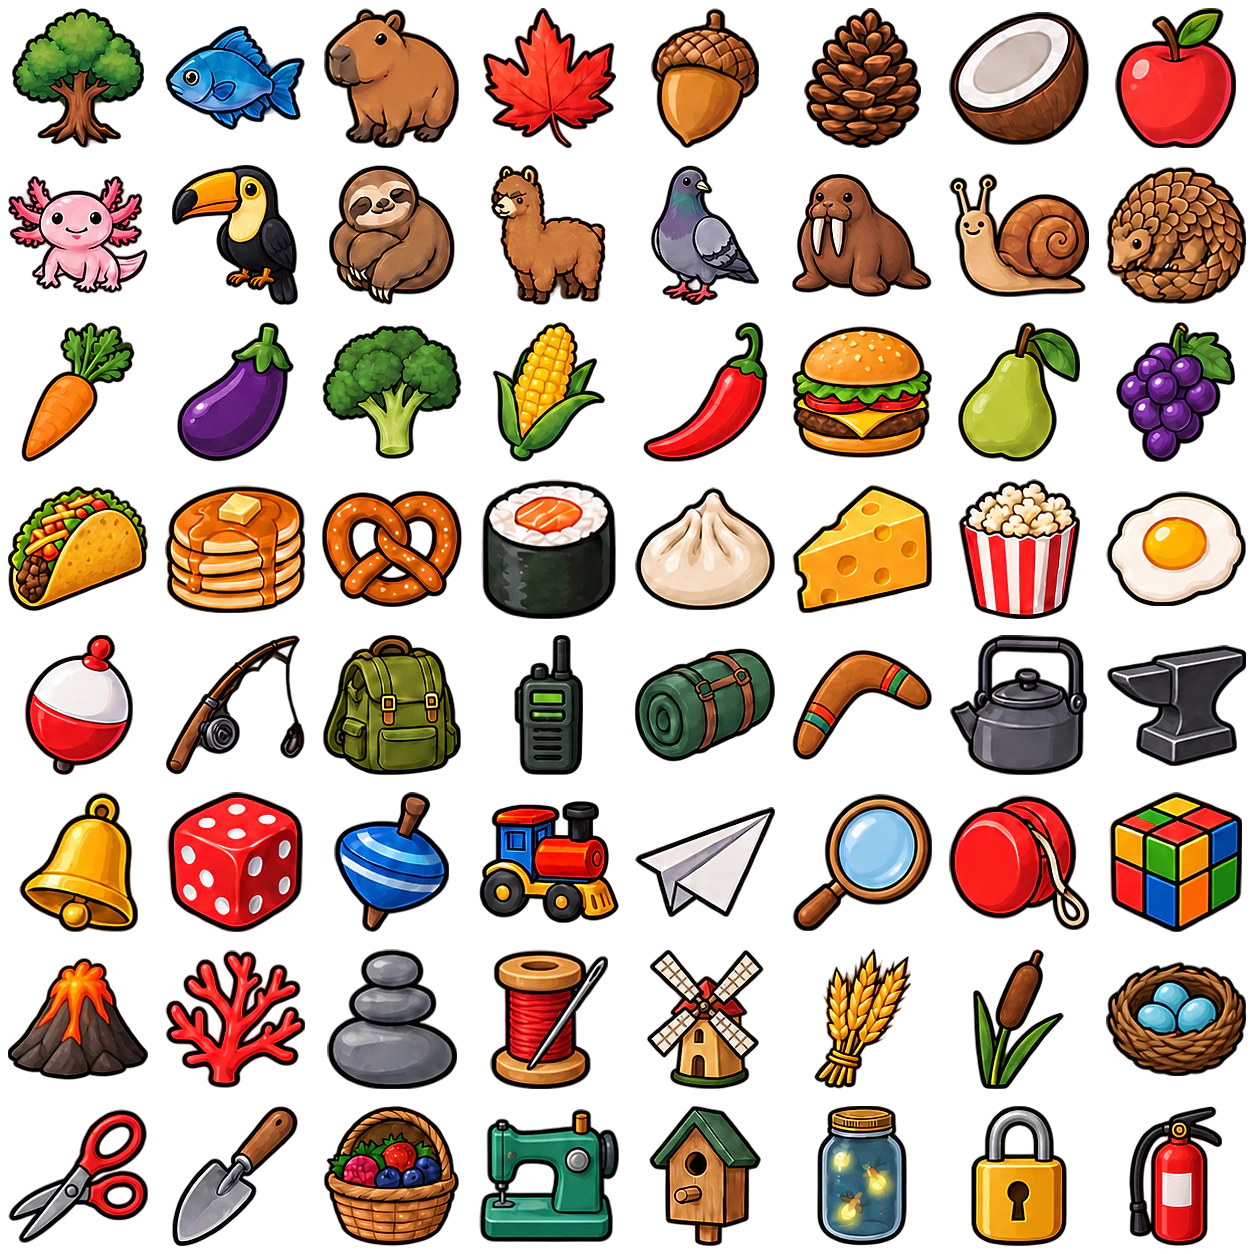
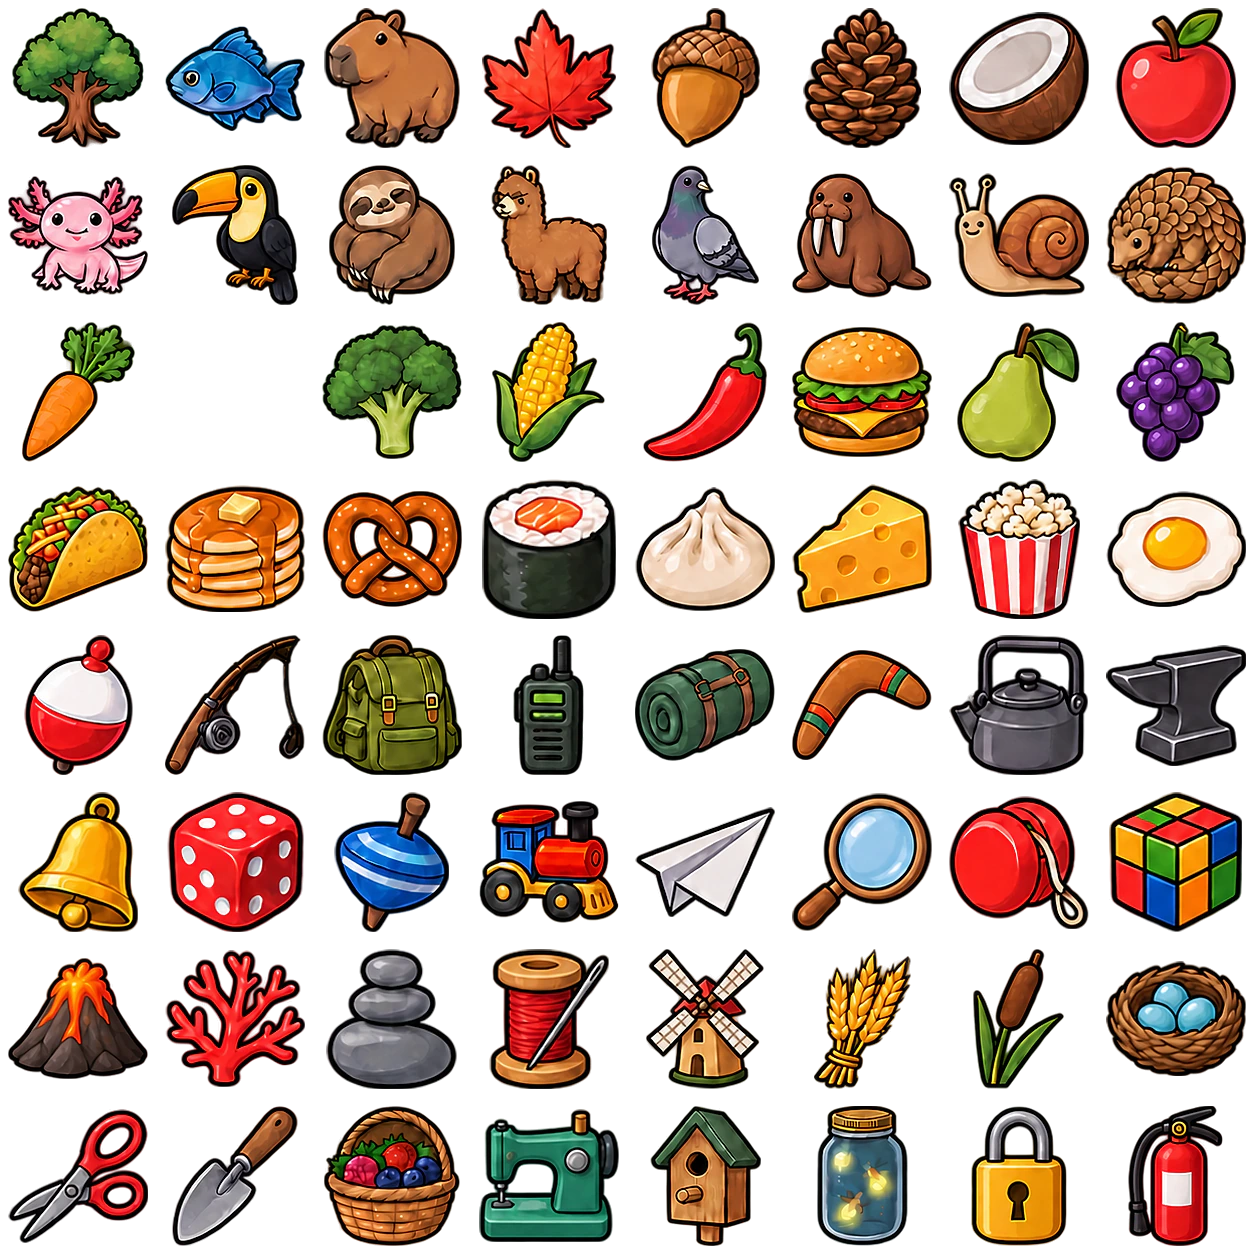
The eggplant profile picture is retired: not offered, and one already chosen shows the default silhouette

diff --git a/src/app/profile-icon-crops.ts b/src/app/profile-icon-crops.ts
@@ -34,17 +34,18 @@ const OBJECT_BOUNDS_V2 = [
 /**
  * The third object sheet (IDs 256–319), fitted the same way from
  * art-source/generated/profile-icons/profile-objects-grid-v3-final.png. Its
- * objects reach into the gaps, so the fit finds each by its shape.
+ * objects reach into the gaps, so the fit finds each by its shape. Cell 17 (the
+ * eggplant, retired) is empty: zeros.
  */
 const OBJECT_BOUNDS_V3 = [
-  [12,8,143,147], [165,26,304,129], [324,8,458,147], [482,8,615,147], [651,8,758,147], [804,8,920,147], [949,12,1088,144], [1115,8,1235,147],
-  [8,176,147,293], [172,165,297,304], [329,165,454,304], [491,165,605,304], [651,165,758,304], [792,174,931,296], [949,173,1088,296], [1106,166,1245,303],
-  [21,322,134,461], [177,322,293,461], [322,325,461,458], [493,322,604,461], [643,322,767,461], [792,326,931,457], [958,322,1079,461], [1116,322,1234,461],
-  [8,486,147,610], [165,485,304,612], [322,490,461,606], [481,479,615,618], [635,487,774,609], [792,484,931,612], [958,479,1079,618], [1106,491,1245,605],
-  [24,635,132,774], [166,635,304,774], [323,635,460,774], [514,635,582,774], [635,648,774,761], [792,650,931,759], [950,635,1086,774], [1106,645,1245,765],
-  [19,792,137,931], [167,792,302,931], [334,792,448,931], [479,801,618,922], [635,807,774,916], [792,794,931,930], [949,795,1088,929], [1109,792,1241,931],
-  [8,958,147,1079], [165,950,304,1087], [327,949,456,1088], [490,949,607,1088], [647,949,763,1088], [814,949,910,1088], [973,949,1063,1088], [1106,961,1245,1075],
-  [8,1109,147,1242], [172,1106,297,1245], [324,1106,458,1245], [479,1109,618,1241], [649,1106,760,1245], [817,1106,906,1245], [971,1106,1066,1245], [1129,1106,1221,1245],
+  [12,8,143,147], [165,26,304,130], [324,8,459,147], [482,8,615,147], [651,8,759,147], [803,8,920,147], [949,12,1088,144], [1115,8,1235,147],
+  [8,176,147,294], [172,165,297,304], [329,165,454,304], [491,165,606,304], [652,165,758,304], [792,173,931,297], [949,173,1088,296], [1106,166,1245,303],
+  [22,322,134,461], [0,0,0,0], [322,325,461,458], [492,322,604,461], [643,322,766,461], [792,327,931,456], [957,322,1079,461], [1116,322,1234,461],
+  [8,486,147,611], [165,485,304,611], [322,491,461,606], [482,479,615,618], [635,487,774,610], [792,484,931,612], [958,479,1079,618], [1106,491,1245,606],
+  [24,635,132,774], [165,635,304,774], [322,635,461,774], [513,635,583,774], [635,649,774,760], [792,650,931,759], [949,635,1087,774], [1106,645,1245,765],
+  [18,792,137,931], [167,792,303,931], [334,792,448,931], [479,801,618,922], [635,807,774,916], [792,793,931,930], [949,796,1088,928], [1109,792,1241,931],
+  [8,958,147,1078], [165,950,304,1086], [326,949,456,1088], [489,949,608,1088], [646,949,763,1088], [814,949,910,1088], [973,949,1063,1088], [1106,961,1245,1075],
+  [8,1109,147,1242], [172,1106,297,1245], [324,1106,459,1245], [479,1109,618,1241], [650,1106,760,1245], [817,1106,907,1245], [971,1106,1066,1245], [1128,1106,1222,1245],
 ] as const;
 
 const crops = (bounds: readonly (readonly [number, number, number, number])[]): readonly ProfileIconCrop[] => bounds.map(([left, top, right, bottom]) => ({

diff --git a/shared/profile-icons.ts b/shared/profile-icons.ts
@@ -28,8 +28,15 @@ const PROFILE_ICON_INDEX_MASK = 0xffff;
 /** The colour drawn behind a picture for each backdrop. */
 export const PROFILE_ICON_BACKGROUND_COLORS: Readonly<Record<ProfileIconBackground, string>> = { white: "#ffffff", black: "#000000" };
 
+/**
+ * Pictures taken off their sheet after shipping: their cell is empty now. They
+ * cannot be chosen, and one already saved reads as the default silhouette.
+ * 273: the eggplant (third object sheet, row 3, column 2), removed in 0.901.18.
+ */
+export const RETIRED_PROFILE_ICONS: ReadonlySet<number> = new Set([273]);
 export const isValidProfileIcon = (value: number) => Number.isInteger(value) && value >= 0
-  && value <= (PROFILE_ICON_BLACK_BACKGROUND | PROFILE_ICON_INDEX_MASK) && (value & PROFILE_ICON_INDEX_MASK) < PROFILE_ICON_COUNT;
+  && value <= (PROFILE_ICON_BLACK_BACKGROUND | PROFILE_ICON_INDEX_MASK) && (value & PROFILE_ICON_INDEX_MASK) < PROFILE_ICON_COUNT
+  && !RETIRED_PROFILE_ICONS.has(value & PROFILE_ICON_INDEX_MASK);
 export function normalizeProfileIcon(value: number) {
   return Number.isFinite(value) && isValidProfileIcon(Math.floor(value)) ? Math.floor(value) : 0;
 }
@@ -53,5 +60,5 @@ export function profileIconLocation(value: number) {
 export function profileIconsInCategory(category: ProfileIconCategory) {
   // Feature the newest sheet first while preserving the original IDs and choices.
   return (category === "people" ? [1, 0] : [4, 3, 2]).flatMap(sheet =>
-    Array.from({ length: PROFILE_ICONS_PER_SHEET }, (_, cell) => sheet * PROFILE_ICONS_PER_SHEET + cell));
+    Array.from({ length: PROFILE_ICONS_PER_SHEET }, (_, cell) => sheet * PROFILE_ICONS_PER_SHEET + cell)).filter(index => !RETIRED_PROFILE_ICONS.has(index));
 }

diff --git a/shared/profile-icons.test.ts b/shared/profile-icons.test.ts
@@ -51,3 +51,14 @@ it("reads as the default silhouette, not another picture, in a client from befor
   for (const index of [0, 42, 255]) expect(shippedNormalize(encodeProfileIcon(index, "black"))).toBe(0);
   expect(shippedNormalize(encodeProfileIcon(42, "white"))).toBe(42);
 });
+
+it("retires the eggplant: it cannot be chosen, is not offered, and a saved one reads as the default silhouette", async () => {
+  const { RETIRED_PROFILE_ICONS, profileIconsInCategory } = await import("./profile-icons");
+  expect(RETIRED_PROFILE_ICONS.has(273)).toBe(true);
+  expect(isValidProfileIcon(273)).toBe(false);
+  expect(isValidProfileIcon(273 | PROFILE_ICON_BLACK_BACKGROUND)).toBe(false);
+  expect(normalizeProfileIcon(273)).toBe(0);
+  expect(profileIconsInCategory("objects")).not.toContain(273);
+  expect(isValidProfileIcon(272)).toBe(true);
+  expect(isValidProfileIcon(274)).toBe(true);
+});

diff --git a/src/ui/profile-icon-picker.test.ts b/src/ui/profile-icon-picker.test.ts
@@ -42,8 +42,8 @@ it("preserves old portraits and maps every new sheet boundary consistently", () 
 
 it("offers all people and objects separately and opens the selected category", () => {
   const f = fixture(191);
-  // All three object sheets, the newest first.
-  expect(f.choices.children).toHaveLength(192);
+  // All three object sheets, the newest first (the retired eggplant left out).
+  expect(f.choices.children).toHaveLength(191);
   expect(f.choices.firstElementChild?.getAttribute("data-profile-icon")).toBe("256");
   expect(f.choices.querySelector('[aria-pressed="true"]')?.getAttribute("data-profile-icon")).toBe("191");
   document.getElementById("profile-icon-tab-people")!.click();

diff --git a/spacetimedb/src/profile-icons.test.ts b/spacetimedb/src/profile-icons.test.ts
@@ -11,7 +11,7 @@ it("saves the added portrait sheets while rejecting indices outside the catalog"
     expect(f.db.playerProfile.identity.find(identity("1")).profileIcon).toBe(profileIcon);
     expect(f.db.playerProfile.identity.find(identity("2")).profileIcon).toBe(42);
   }
-  for (const profileIcon of [-1, 320, 1.5]) {
+  for (const profileIcon of [-1, 320, 1.5, 273]) {
     expect(() => f.run(server.setProfileIcon, { profileIcon })).toThrow("Choose an available profile picture.");
     expect(f.db.playerProfile.identity.find(identity("1")).profileIcon).toBe(319);
   }
